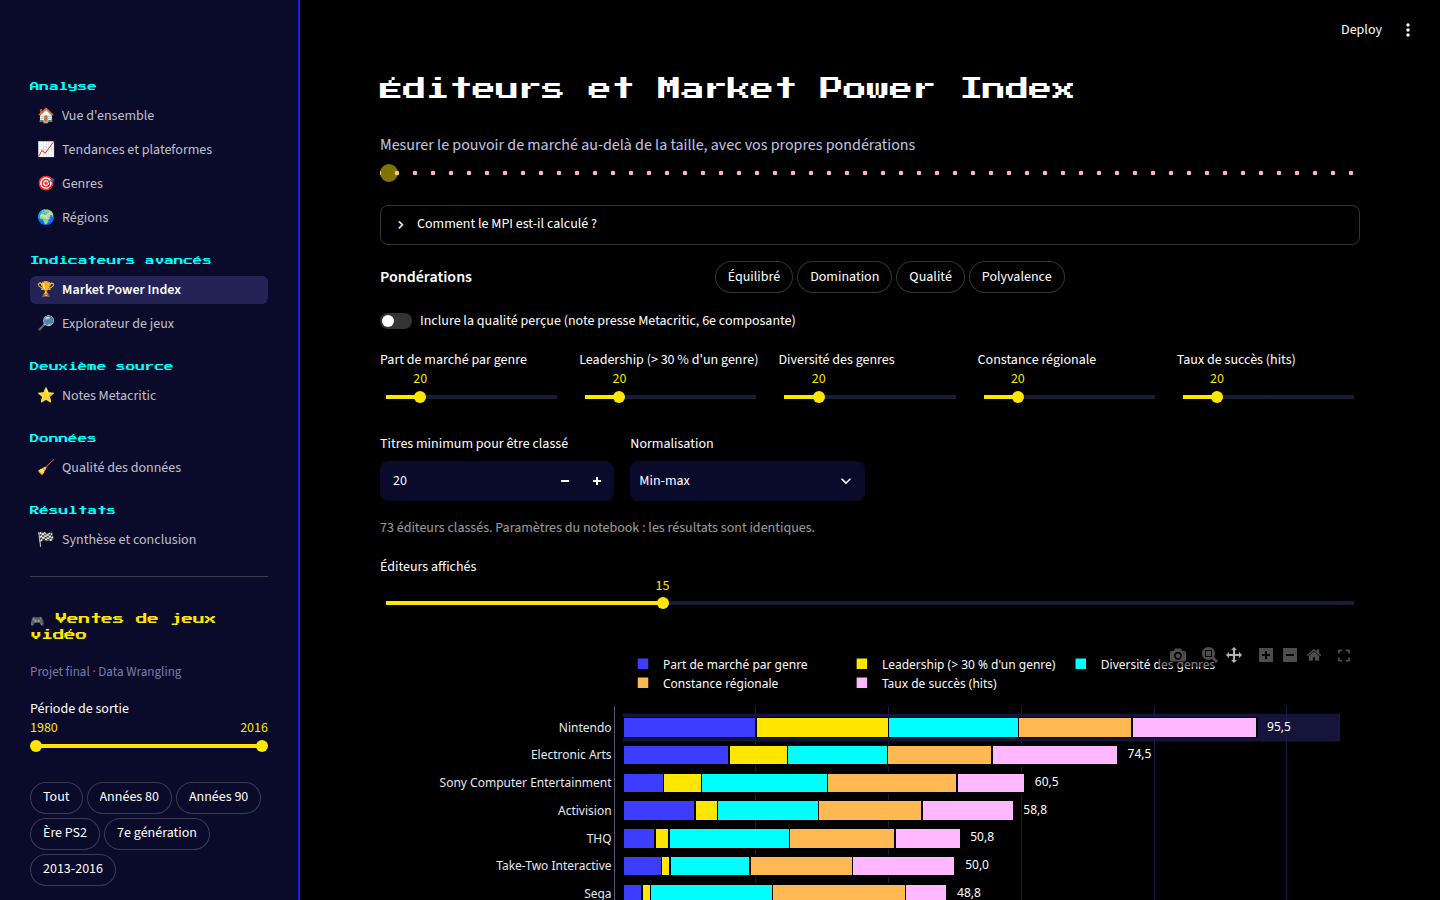
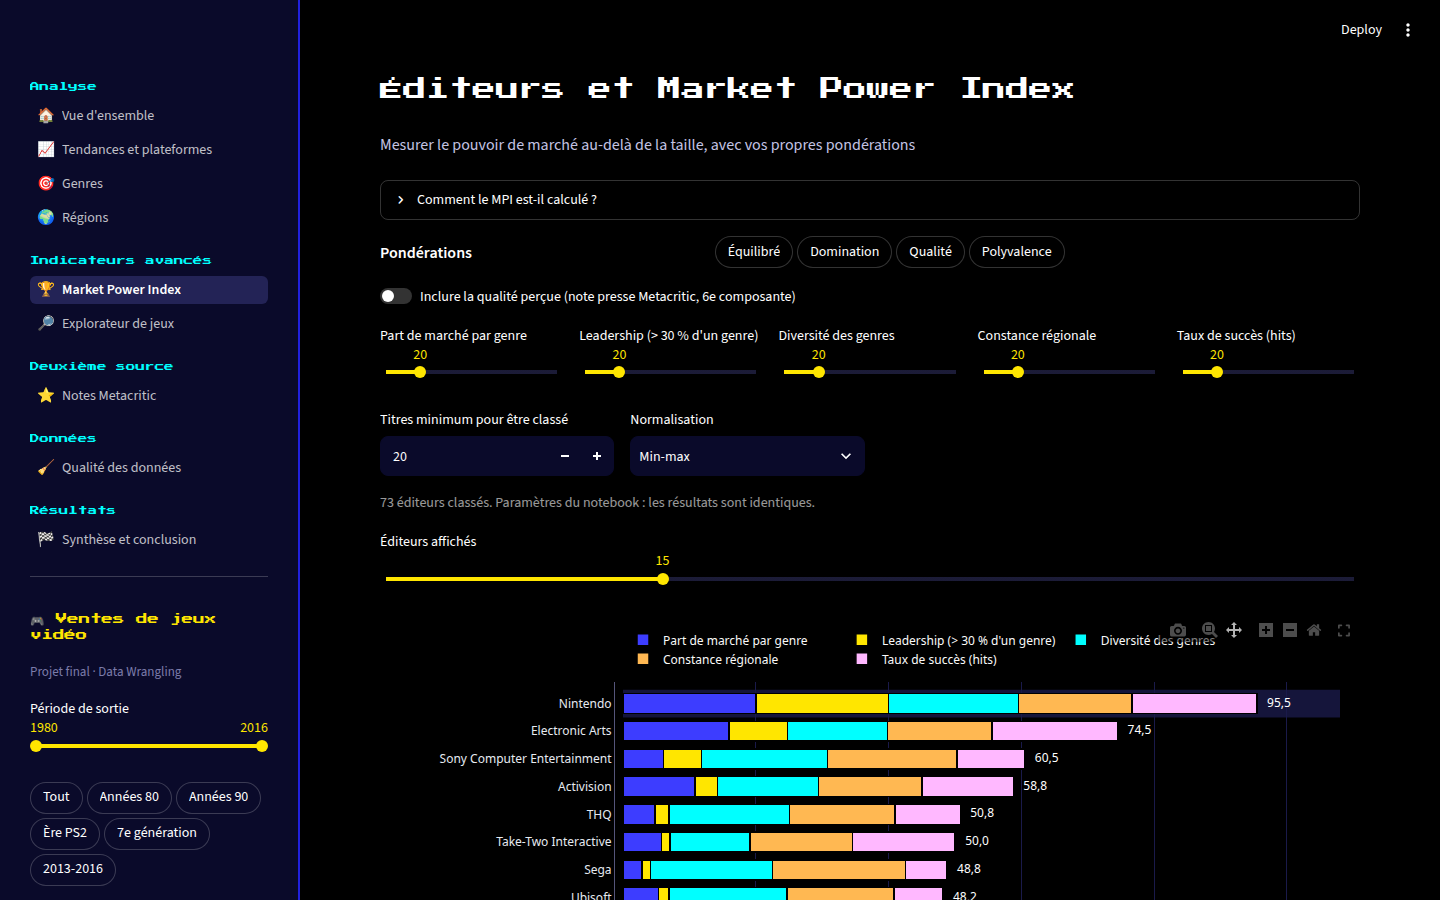
Interface : retire la barre Pac-Man sous les titres, captures du README à jour
Claude-Session: https://claude.ai/code/session_01TxBE5TjKmjLNN64JhzgtML

diff --git a/app/theme.py b/app/theme.py
@@ -37,14 +37,7 @@ CSS = f"""
 @font-face {{font-family: 'Press Start 2P'; src: url(data:font/ttf;base64,{_POLICE}) format('truetype');}}
 .block-container {{padding-top: 2.2rem; max-width: 1350px;}}
 h1.titre {{font-family: {PIXEL}; font-size: 1.45rem; line-height: 1.6; font-weight: 400; color: {TEXTE}; margin-bottom: 0;}}
-p.sous-titre {{color: {TEXTE_2}; font-size: 1.0rem; margin: 0.5rem 0 0.4rem 0;}}
-/* Pac-Man et sa rangée de pac-gommes, sous chaque titre */
-.pac-ligne {{position: relative; height: 18px; margin: 0.3rem 0 1.4rem 0;
-  background: radial-gradient(circle, {PECHE} 2px, transparent 2.6px) 26px 50% / 18px 18px repeat-x;}}
-.pac-ligne::before {{content: ""; position: absolute; left: 0; top: 0; width: 18px; height: 18px; border-radius: 50%;
-  background: conic-gradient(from 90deg, transparent 0 40deg, {JAUNE} 40deg 320deg, transparent 320deg);
-  animation: croque .45s steps(2) infinite;}}
-@keyframes croque {{50% {{background: {JAUNE};}}}}
+p.sous-titre {{color: {TEXTE_2}; font-size: 1.0rem; margin: 0.5rem 0 1.4rem 0;}}
 h2, h3 {{font-family: {PIXEL}; font-weight: 400 !important; letter-spacing: 0; line-height: 1.6;}}
 h2 {{font-size: 1.05rem !important;}} h3 {{font-size: 0.85rem !important;}}
 h2 span, h3 span {{font-family: {PIXEL};}}

diff --git a/app/views.py b/app/views.py
@@ -37,8 +37,7 @@ def pct(v: float, d: int = 1) -> str:
 
 
 def entete(titre: str, sous_titre: str) -> None:
-    st.markdown(f"<h1 class='titre'>{titre}</h1><p class='sous-titre'>{sous_titre}</p>"
-                f"<div class='pac-ligne'></div>", unsafe_allow_html=True)
+    st.markdown(f"<h1 class='titre'>{titre}</h1><p class='sous-titre'>{sous_titre}</p>", unsafe_allow_html=True)
 
 
 def encart(texte: str) -> None:
